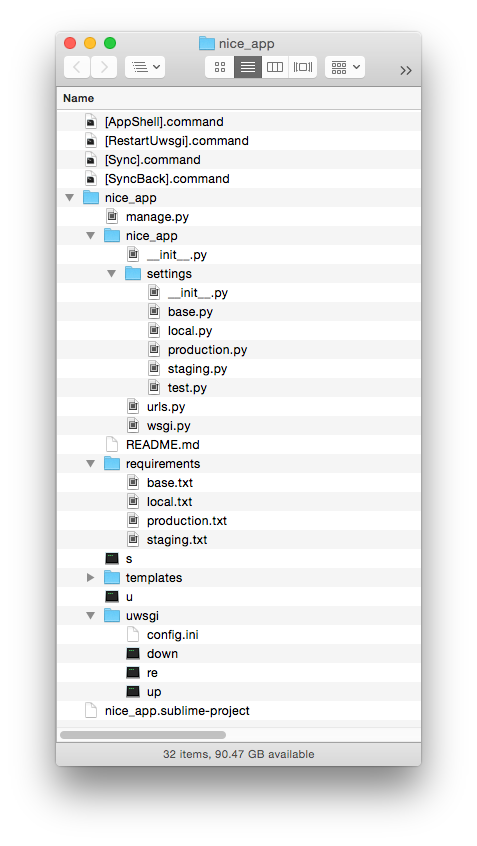
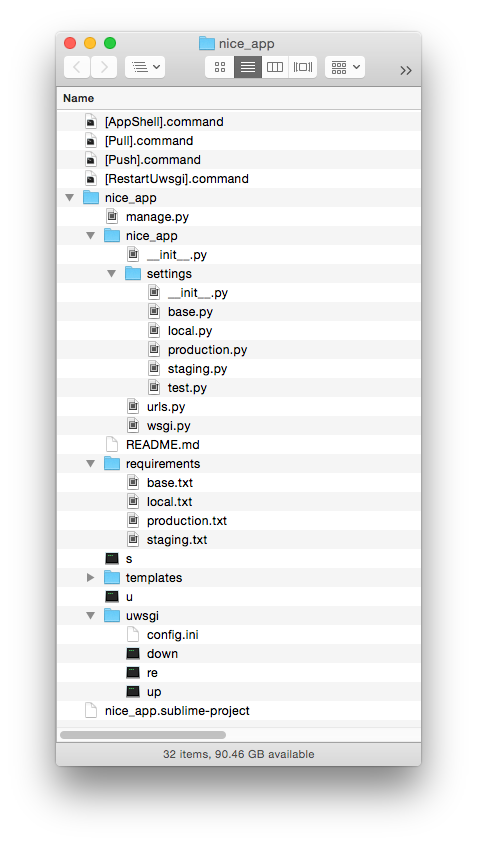
Readme

Changed region(s): [[0.2055, 0.1537, 0.5283, 0.2151]]

diff --git a/README.md b/README.md
@@ -1,15 +1,66 @@
 # InstaDjango
 
-Being written...
+Some web app ideas just can't wait. All you want to do is to start developing ASAP without going through a tedious and potentially erroneous installation process of your web framework.
+
+And if your favorite web framework happens to be Django, which is one of the most proficiently crafted and easy to use frameworks there are, InstaDjango might be exactly what you need to spin up a Django server in the matter of seconds.
 
 <p align="center">
   <img src="readme_files/gui.png"/>
 </p>
 
+## Features
+
+InstaDjango takes care of:
+
+* **virtualenv**: as a standard practice, your app is installed into its own virtual environment
+* **uWSGI**: this communication layer between the web server and Django, which is recommended by Django developers, is installed and configured for your app automatically, providing you with easy ways to start up, shut down, and restart uWSGI
+* **your app's requirements**
+* **directory structures**: the files of your app are conveniently organized according to a highly reputable "[Two Scoops of Django: Best Practices for Django](http://twoscoopspress.org/products/two-scoops-of-django-1-8)"
+* **deployment profiles**: app requirements and setting are split and logically chained to let you deploy your app for local development, production, staging (pre-production), or testing
+* **your initial local copy of the app**: ready to slide under source control, the locally stored directory of your app reflects the relevant files in the remote directory on your server
+* **secret key and password security**: unlike with manual installation, the very sensible information such as your app's secret key and your database's password are stored as environment variables in the virtual environment of your app on the server instead of any of the settings file and thereby escape getting accidentally published via source control/collaboration
+* **synchronization**: the locally baked rsync-based scripts let you push changes from your local directory into the remote directory and, for example after creating a Django sub-app remotely, pull changes from the remote directory into the local one
+* **SSH-ing directly into the app's virtual environment**: no need to first SSH into the server, then go into the app's directory, and then manually activate the virtual environment because a locally prepared script will happily do this all for you
+* **Sublime Text integration**: InstaDjango assumes that you are a cool person already using one of the best Python IDEs for your app development, namely Sublime Text powered with Anaconda, so it generates a Sublime Text project pre-configured to push changed into your app's remote directory and restart uWSGI when you simply build the project
+
+## Usage
+
+Just run `InstaDjango.py`, fill out the GUI form, and hit Go. You can make it even faster by hopping through the input fields with the <kbd>Tab</kbd> key!
+
+Before letting it go, make sure that the parent directory where you want the app's remote directory to be created, such as `/var/www`, is owned by the remote user (which is you!) and not root. Otherwise, you may get permission problems.
+
+The domain info is primarily needed for an entry in the Django settings that restricts the app to a specific domain when running in production with `DEBUG` being `false`.
+
+If you are more used to a more straightforward approach to editing source files by means of an FTP/SCP client, for example Cyberduck, instead of using rsync, just remove the local directory and you're done (the remote directory is meant to be a superset of the local one).
+
+After InstaDjango has finished, your app's local directory should look similar to the following structure:
+
 <p align="center">
   <img src="readme_files/local_app_dir.png"/>
 </p>
 
+Let's go over the shell scripts that you can notice at the top:
+
+* **[AppShell].command** is for SSH-ing into the server's shell with the working directory changed to the app's remote directory and having the app's virtual environment already activated for you
+* **[Push].command** is for pushing changes from the local directory into the remote one; you may consider running [RestartUwsgi].command after that or simply joining the two scripts together
+* **[Pull].command** is for pulling changes from the remote directory into the local one
+* **[RestartUwsgi].command** is for restarting uWSGI on the server for the changes to Django files to take effect
+
+Now, let's compare it to the structure of the app's remote directory:
+
 <p align="center">
   <img src="readme_files/remote_app_dir.png"/>
 </p>
+
+As you can see, the remote directory contains a directory used by the app's virtual environment, which is technical and has little to do with the functioning of your Django app, while the local directory does not contain this directory to keep things cleaner.
+
+You don't get the directory for static files locally either because static files are supposed to be collected by Django from other directories automatically on the server after you push those files while they are being stored locally inside their respective subdirectories.
+
+## Prerequisites
+
+* OS X with Python 3 locally
+* an Ubuntu/Debian server remotely
+* a web server, such as Nginx; the configured uWSGI port is expected to be 8800
+* PostgreSQL for your server's database (MySQL support might be added later)
+* SSH access to the server using a private key and with the passphrase already in the OS X's keychain (if any)
+* if you've got Sublime Text, [Anaconda](https://github.com/DamnWidget/anaconda) is to make your Python development more comfortable as well as to facilitate your app's builds with the generated Sublime Text project
